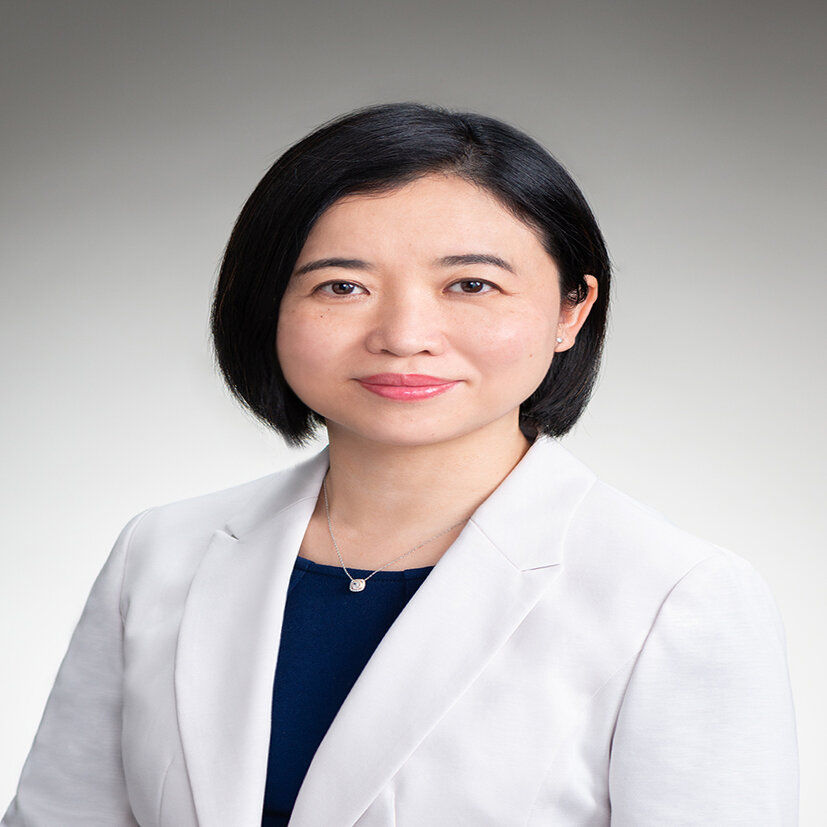
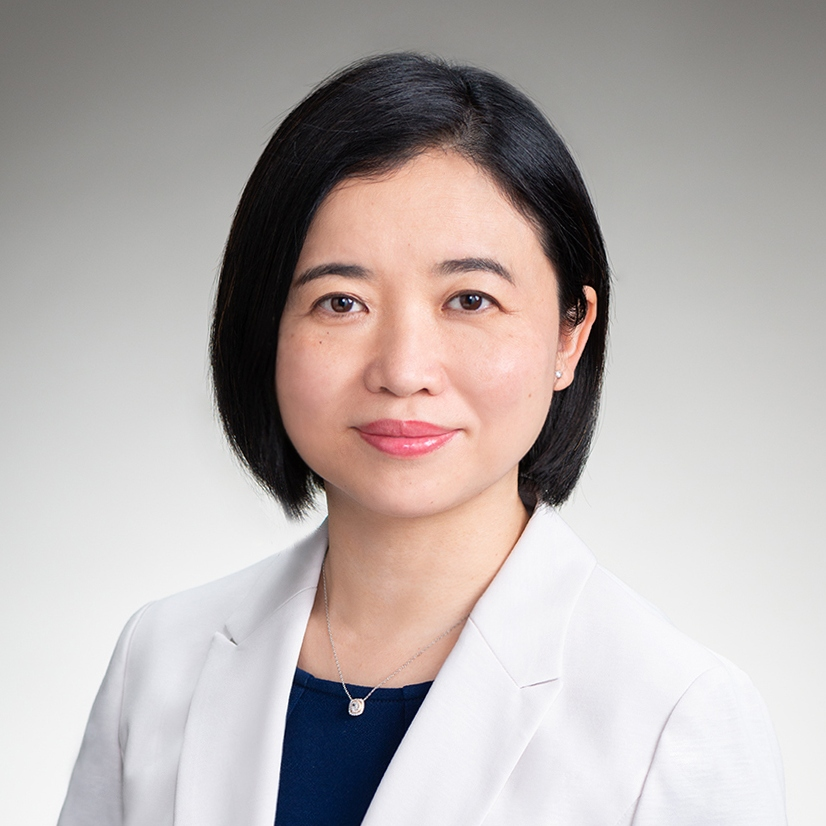
add crop and compress some page

Changed region(s): [[0.0, 0.0605, 0.7567, 1.0], [0.6659, 0.7567, 0.7869, 1.0], [0.7869, 0.7264, 0.8172, 0.7567]]

diff --git a/form.html b/form.html
@@ -1,0 +1,268 @@
+<!DOCTYPE html>
+<html lang="en">
+<head>
+    <meta charset="UTF-8">
+    <meta name="viewport" content="width=device-width, initial-scale=1.0">
+    <title>CCSI APAC</title>
+    <link rel="shortcut icon" type="image/x-icon" href="img/logo done.png">
+    <link rel="stylesheet" href="css/style.css">
+    <link rel="Stylesheet" type="text/css" href="css/font-awesome-4.7.0/css/font-awesome.min.css">
+    <link rel="stylesheet" href="css/bootstrap.min.css">
+    <script src="js/jquery.js"></script>
+    <script src="js/jquery1.js"></script>
+    <script src="js/jquery2.js"></script>
+    <script src="js/popper.js"></script>
+    <script src="js/bootstrap.min.js"></script>
+    <style>
+        body {
+  font-family: "Roboto", -apple-system, BlinkMacSystemFont, "Segoe UI", Roboto, "Helvetica Neue", Arial, "Noto Sans", sans-serif, "Apple Color Emoji", "Segoe UI Emoji", "Segoe UI Symbol", "Noto Color Emoji";
+  color: #999;
+  line-height: 2;
+  background-image: -webkit-linear-gradient(330deg, #66a6ff 0%, #89f7fe 100%);
+  background-image: -o-linear-gradient(330deg, #66a6ff 0%, #89f7fe 100%);
+  background-image: linear-gradient(120deg, #66a6ff 0%, #89f7fe 100%); }
+
+h1, h2, h3, h4, h5, h6,
+.h1, .h2, .h3, .h4, .h5, .h6 {
+  font-family: "Poppins", sans-serif;
+  color: #000; }
+
+a {
+  -webkit-transition: .3s all ease;
+  -o-transition: .3s all ease;
+  transition: .3s all ease; }
+  a, a:hover {
+    text-decoration: none !important; }
+
+.text-black {
+  color: #000; }
+
+.content {
+  padding: 7rem 0; }
+
+h2 {
+  font-size: 3.5rem;
+  font-weight: 700; }
+
+h3 {
+  font-size: 2rem;
+  font-weight: 700; }
+
+.form-control {
+  border: none;
+  border: 1px solid #d9d9d9;
+  border-radius: 4px; }
+  .form-control:active, .form-control:focus {
+    outline: none;
+    -webkit-box-shadow: none;
+    box-shadow: none;
+    border-color: #000; }
+
+.col-form-label {
+  color: #000; }
+
+.btn, .form-control {
+  height: 55px; }
+
+.heading {
+  color: #888;
+  letter-spacing: .05rem;
+  text-transform: uppercase;
+  font-weight: 400; }
+
+.btn {
+  color: #fff;
+  border: none;
+  border-radius: 4px !important;
+  -webkit-box-shadow: 0 1px 5px 0 rgba(0, 0, 0, 0.1) !important;
+  box-shadow: 0 1px 5px 0 rgba(0, 0, 0, 0.1) !important; }
+  .btn:hover {
+    color: #fff; }
+  .btn:active, .btn:focus {
+    outline: none;
+    -webkit-box-shadow: none;
+    box-shadow: none; }
+
+.box {
+  padding: 40px 70px;
+  background: #fff;
+  -webkit-box-shadow: 0 15px 30px 0 rgba(0, 0, 0, 0.2);
+  box-shadow: 0 15px 30px 0 rgba(0, 0, 0, 0.2); }
+  .box h3 {
+    font-size: 14px;
+    margin-bottom: 30px;
+    text-align: center; }
+
+label.error {
+  font-size: 12px;
+  color: red; }
+
+#message {
+  resize: vertical; }
+
+#form-message-warning, #form-message-success {
+  display: none; }
+
+#form-message-warning {
+  color: #B90B0B; }
+
+#form-message-success {
+  color: #55A44E;
+  font-size: 18px;
+  font-weight: bold;
+  text-align: center; }
+
+.submitting {
+  text-align: center;
+  float: left;
+  width: 100%;
+  padding: 10px 0;
+  display: none;
+  font-weight: bold;
+  font-size: 12px;
+  color: #000; }
+
+
+    </style>
+</head>
+<body onscroll="reswize()">     
+    <!-- header  -->
+    <div class="fixed-top">
+      <nav class="navbar navbar-expand-lg navbar-dark linear-gradient " id="navbar">
+        <div class="container">
+            <a class="navbar-brand" href="#" >
+              <img  src="img/logo done.png" alt="" id="logo" class="logo">
+            </a>
+            <button class="navbar-toggler" type="button" data-toggle="collapse" data-target="#nav" aria-controls="nav" aria-expanded="false" aria-label="Toggle navigation">
+              <span class="navbar-toggler-icon"></span>
+            </button>
+            <div class="collapse navbar-collapse" id="nav">
+                <ul class="nav navbar-nav ml-auto">
+                  <li class="nav-item">
+                    <a class="nav-link" href="https://ccsi.global/">CCSI Family
+                    </a>
+                  </li>
+                  <li class="nav-item">
+                    <a class="nav-link" href="index.html">About</a>
+                  </li>
+                  <li class="nav-item">
+                    <a class="nav-link " href="leadershipAndExpirts.html">Leadership & Experts</a>
+                  </li>
+                  <li class="nav-item">
+                    <a class="nav-link active" href="contact.html">Contact</a>
+                  </li>
+                </ul>
+            </div>
+        </div>
+      </nav>    
+    </div> 
+    <div class="hidd" style="height: 200px;"></div>
+  
+  
+   <section>
+        <div class="container">
+                <div class="row align-items-center">
+                  <div class="col-lg-6 mr-auto">
+                    <div class="mb-5">
+                      <h3 class="text-white mb-4">Contact Info</h3>
+                      <p class="text-white">Lorem ipsum dolor sit amet, consectetur adipisicing elit. Voluptatibus blanditiis, perferendis aliquam.</p>
+                    </div>
+                    <div class="row">
+                      <div class="col-md-6">
+                        <h3 class="text-white h5 mb-3">London</h3>
+                        <ul class="list-unstyled mb-5">
+                          <li class="d-flex text-white mb-2">
+                            <span class="mr-3"><span class="icon-map"></span></span> 34 Street Name, City Name Here, United States
+                          </li>
+                          <li class="d-flex text-white mb-2"><span class="mr-3"><span class="icon-phone"></span></span> +1 (222) 345 6789</li>
+                          <li class="d-flex text-white"><span class="mr-3"><span class="icon-envelope-o"></span></span> info@mywebsite.com </li>
+                        </ul>
+                      </div>
+                      <div class="col-md-6">
+                        <h3 class="text-white h5 mb-3">New York</h3>
+                        <ul class="list-unstyled mb-5">
+                          <li class="d-flex text-white mb-2">
+                            <span class="mr-3"><span class="icon-map"></span></span> 34 Street Name, City Name Here, United States
+                          </li>
+                          <li class="d-flex text-white mb-2"><span class="mr-3"><span class="icon-phone"></span></span> +1 (222) 345 6789</li>
+                          <li class="d-flex text-white"><span class="mr-3"><span class="icon-envelope-o"></span></span> info@mywebsite.com </li>
+                        </ul>
+                      </div>
+                    </div>
+                  </div>
+          
+                  <div class="col-lg-6">
+                    <div class="box">
+                      <h3 class="heading">Send us a message</h3>
+                      <form class="mb-5" method="post" id="contactForm" name="contactForm">
+                        <div class="row">
+                          
+                          <div class="col-md-12 form-group">
+                            <label for="name" class="col-form-label">Name</label>
+                            <input type="text" class="form-control" name="name" id="name">
+                          </div>
+                        </div>
+                        <div class="row">
+                          <div class="col-md-12 form-group">
+                            <label for="email" class="col-form-label">Email</label>
+                            <input type="text" class="form-control" name="email" id="email">
+                          </div>
+                        </div>
+          
+                        <div class="row mb-3">
+                          <div class="col-md-12 form-group">
+                            <label for="message" class="col-form-label">Message</label>
+                            <textarea class="form-control" name="message" id="message" cols="30" rows="7"></textarea>
+                          </div>
+                        </div>
+                        <div class="row">
+                          <div class="col-md-12">
+                            <input type="submit" value="Send Message" class="btn btn-block btn-primary rounded-0 py-2 px-4">
+                            <span class="submitting"></span>
+                          </div>
+                        </div>
+                      </form>
+          
+                      <div id="form-message-warning mt-4"></div> 
+                      <div id="form-message-success">
+                        Your message was sent, thank you!
+                      </div>
+                    </div>
+                  </div>
+                </div>
+            </div>
+   </section>
+  
+   <!--  /*footer section*/ -->
+   <footer>
+      <div class="container-fluid">
+          <div class="row">
+              <div class="col-md-4 col-lg-4 col-sm-12 col-xs-12 f-col">
+                  <div>
+                      <img class="footer-logo" src="img/logo done.png" alt="">
+                  </div>
+              </div>
+              <!-- <div class="col-md-4 col-lg-4 col-sm-12 col-xs-12 f-col">
+                  <h4>Where are we based?</h4>
+                  <p>Chiyoda-ku Tokyo Japan</p>
+                  <p>Po Box 10392-80101 Mombasa Kenya</p>
+                  <h4>Contact Us</h4>
+                  <p><i class="fa fa-phone"></i>+254722586269</p>
+                  <p> <i class="fa fa-phone"></i> tb@ccsiafrica.com</p>
+              </div> -->
+              <div class="col-md-4 col-lg-4 col-sm-12 col-xs-12 f-col">
+               <div class="hidd" style="height: 30px; "></div>
+                  <!-- <h4>Helpfull Links</h4> -->
+                  <ul>
+                      <li><a href="#">Services</a></li>
+                      <li><a href="#">Supports</a></li>
+                      <li><a href="#">Terms & Condition</a></li>
+                      <li><a href="#">Privacy Policy</a></li>
+                  </ul>
+              </div>
+          </div>
+      </div> 
+    </footer>
+</body>
+</html>
+<script type="text/javascript" src="js/script.js"></script>

diff --git a/contact.html b/contact.html
@@ -73,13 +73,14 @@
                           style="border-top-left-radius: .25rem; border-bottom-left-radius: .25rem; height: 570px; padding: 30px;"  />  -->
                         </div>
                         <div class="col-xl-6 col-sm-12">
-                          <div class="card-body p-md-5 text-black">
-                            <div class="row">
-                              <div class="col-md-12 mb-4">
+                          <form action="" onsubmit="return validation()">
+                          <div class="card-body p-md-5 text-black" >
+                            <div class="row" >
+                              <div class="error_message"></div>
+                              <div class="col-md-12 mb-4" >
                                 <div class="form-outline">
                                     <label class="form-label" for="form3Example1m">FirstName</label>
                                   <input type="text" id="form3Example1m" class="form-control form-control-lg" />
-                                  
                                 </div>
                               </div>
                               <div class="col-md-12 mb-4">
@@ -104,6 +105,7 @@
                             </div>
                           </div>
                         </div>
+                      </form>
                     </div>
                   </div>
                 </div>

diff --git a/leadershipAndExpirts.html b/leadershipAndExpirts.html
@@ -82,7 +82,7 @@
             <div class="text-center positions"><h2>Director</h2></div>
             <div class="row">
                 <div class="col-md-4 col-lg-4 col-sm-12 col-xs-12" id="imageLeadership">
-                    <img src="img/Enrico Carisch-photo-min.jpg">
+                    <img src="img/Enrico Carisch-photo.jpg">
                  </div>
               <div class="col-md-8 col-lg-8 col-sm-12 col-xs-12 paraLeadership">
                 <h3>Enrico Carisch</h3>
@@ -141,7 +141,7 @@
               <button id="btn">Read More</button>
             </div>
             <div class="box col-md-4 col-lg-4 col-sm-12 col-xs-12" style="background-color:  #e9f2f4;">
-              <img src="img/Won-Jang.jpg">
+              <img src="img/Won Jang-photo .jpg">
               <h3>Won Jang</h3>
               <h5>Senior Associate Fellow </h5>
               <div class="visible-content">
@@ -159,7 +159,7 @@
           </div>
           <div class="row">
             <div class="box col-md-4 col-lg-4 col-sm-12 col-xs-12" style="background-color:  #e9f2f4;">
-              <img src="img/Kiwako-Tanaka-photo.jpg">
+              <img src="img/Kiwako Tanaka-photo.jpg">
               <h3>Kiwako Tanaka, Ph.D</h3>
               <h5>Senior Fellow </h5>
               <div class="visible-content">

diff --git a/css/style.css b/css/style.css
@@ -278,17 +278,25 @@ h3{
 
 /*//form style*/
 
-.card-registration .select-input.form-control[readonly]:not([disabled]) {
+/* .card-registration .select-input.form-control[readonly]:not([disabled]) {
 	font-size: 1rem;
 	line-height: 2.15;
 	padding-left: .75em;
 	padding-right: .75em;
-}
+} */
 .form-section{
 	width: 100%;
 }
-.card-registration .select-arrow {
+/* .card-registration .select-arrow {
 	top: 13px;
+} */
+.error_message{
+	margin-bottom: 20px;
+	padding: 0px;
+	background: #fe8b8e;
+	text-align: center;
+	font-size: 14px;
+	transition: all 0.5s ease;
 }
 
 /*//end form style*/

diff --git a/js/script.js b/js/script.js
@@ -45,3 +45,6 @@ function scrollFunction() {
     document.getElementById("logo").style.width = "200px";
   }
 }
+function validation() {
+  alert("working");
+}
